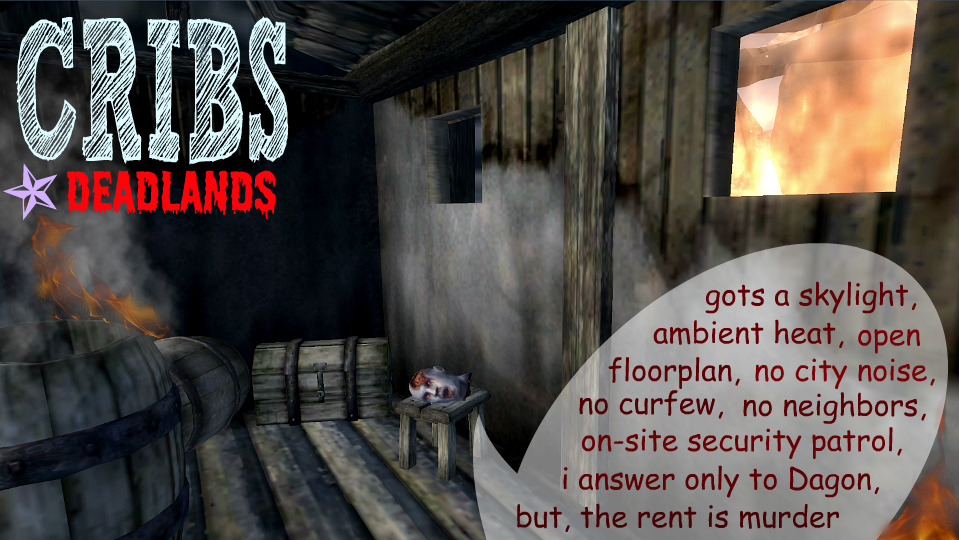
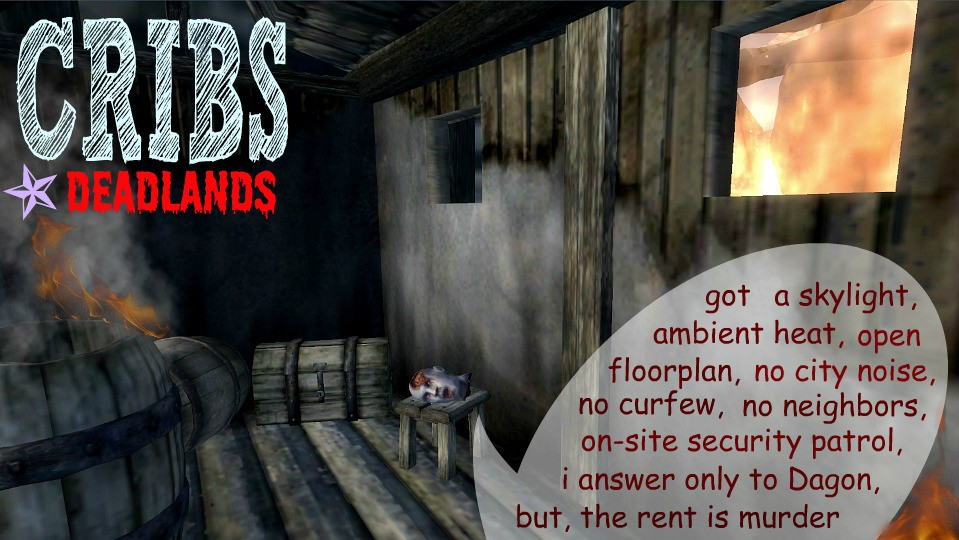
oblivion posts

diff --git a/tags/ffxiv/index.html b/tags/ffxiv/index.html
@@ -1,0 +1,4 @@
+---
+layout: tagpage
+tag: ffxiv
+---

diff --git a/_posts/2019-01-25-Adoring-Fan-Cookie-Jar.md b/_posts/2019-01-25-Adoring-Fan-Cookie-Jar.md
@@ -1,0 +1,10 @@
+---
+layout: post
+post_type: single-img
+title: Oblivion Adoring Fan Cookie Jar
+date: 2019-01-25 01:01:00
+tags: [totallylookslike, oblivion]
+img1: /img/oblivion/byazura.jpg
+source: Unknown
+---
+#### *"By Azura, by Azura, by Azura! It's the Grand Champion! I can't believe it's you! Standing here! Next to me!"*

diff --git a/_posts/2019-01-25-Oblivion-NPC.md b/_posts/2019-01-25-Oblivion-NPC.md
@@ -1,0 +1,9 @@
+---
+layout: post
+post_type: single-img
+title: FF14 Oblivion NPC
+date: 2019-01-25 01:02:00
+tags: [ffxiv, totallylookslike, oblivion]
+img1: /img/oblivion/ff14oblivionnpc.png
+source: <a href="https://ffxivcryptids.tumblr.com" target="_blank" rel="nofollow">FF14 Cryptids</a>
+---

diff --git a/_posts/2019-01-25-Jagged-Walkways.md b/_posts/2019-01-25-Jagged-Walkways.md
@@ -1,0 +1,10 @@
+---
+layout: post
+post_type: single-img
+title: Jagged Walkways Scotland
+date: 2019-01-25 01:04:00
+tags: [totallylookslike, oblivion]
+img1: /img/oblivion/cheydinhal.jpg
+source: Photography by Andrew B Harris
+---
+#### *Jagged Walkways* totallylookslike Cheydinhal, Cyrodiil.

diff --git a/_posts/2019-01-25-Deadlands-Cribs.md b/_posts/2019-01-25-Deadlands-Cribs.md
@@ -1,0 +1,10 @@
+---
+layout: post
+post_type: double-img
+title: Deadlands Cribs of Oblivion
+date: 2019-01-25 01:00:00
+tags: [oblivion]
+img1: /img/oblivion/crib1.jpg
+img2: /img/oblivion/crib2.jpg
+---
+#### Oblivion, hour 72: Still no shitters.

diff --git a/_posts/2019-01-25-Jumbo-Potatoes.md b/_posts/2019-01-25-Jumbo-Potatoes.md
@@ -1,0 +1,9 @@
+---
+layout: post
+post_type: single-img
+title: Oblivion S'jirra Jumbo Potatoes
+date: 2019-01-25 01:03:00
+tags: [oblivion, ROLLOVER]
+img1: /img/oblivion/taters1.jpg
+img1_rollover: /img/oblivion/taters2.jpg
+---
